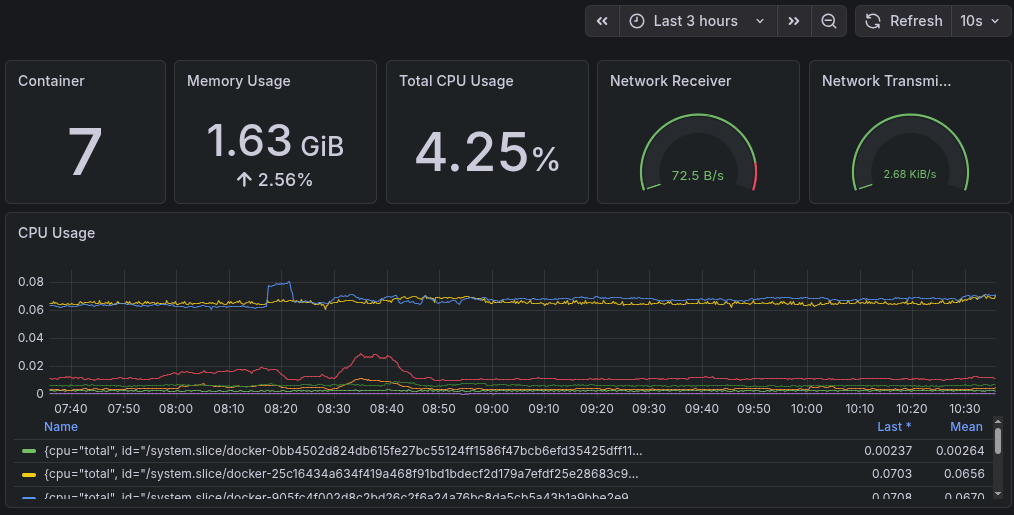
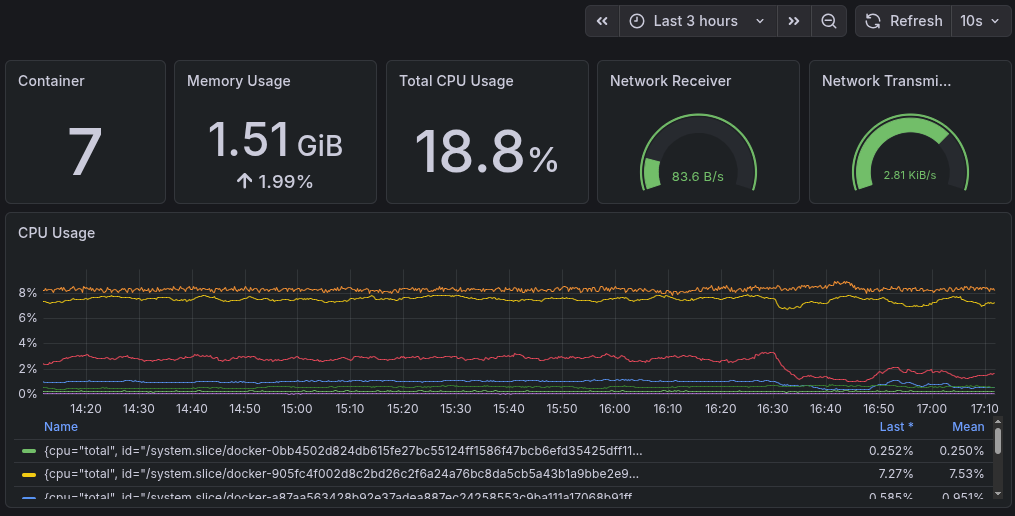
Update README.md - grafana dashboard & screenshot

diff --git a/README.md b/README.md
@@ -102,7 +102,7 @@ The prometheus.yml file is the central configuration heart of the Prometheus ser
 	| :--- | :--- | :--- | :---|
 	| container|count(container_last_seen{id=~"/system.slice/docker-.*.scope"})|Stat|Count docker container actually in our system|
 	| memory|sum(container_memory_usage_bytes{id=~"/system.slice/docker-.*.scope"})|Stat|Measure memory usage|
-	| cpu|sum(rate(container_cpu_usage_seconds_total[5m])) by (image)|Stat|Measure total CPU usage|
+	| cpu|sum(rate(container_cpu_usage_seconds_total{id=~"/system.slice/docker-.*.scope"}[5m])) * 100|Stat|Measure total CPU usage|
 	| network receive|rate(container_network_receive_bytes_total[5m])|Gauge|Monitor received data|
 	| network transmit|rate(container_network_transmit_bytes_total[5m])|Gauge|Monitor transmited data|
 	| memory|container_memory_usage_bytes{id=~"/system.slice/docker-.*.scope"}|Time Series|Monitor memory graphically|
